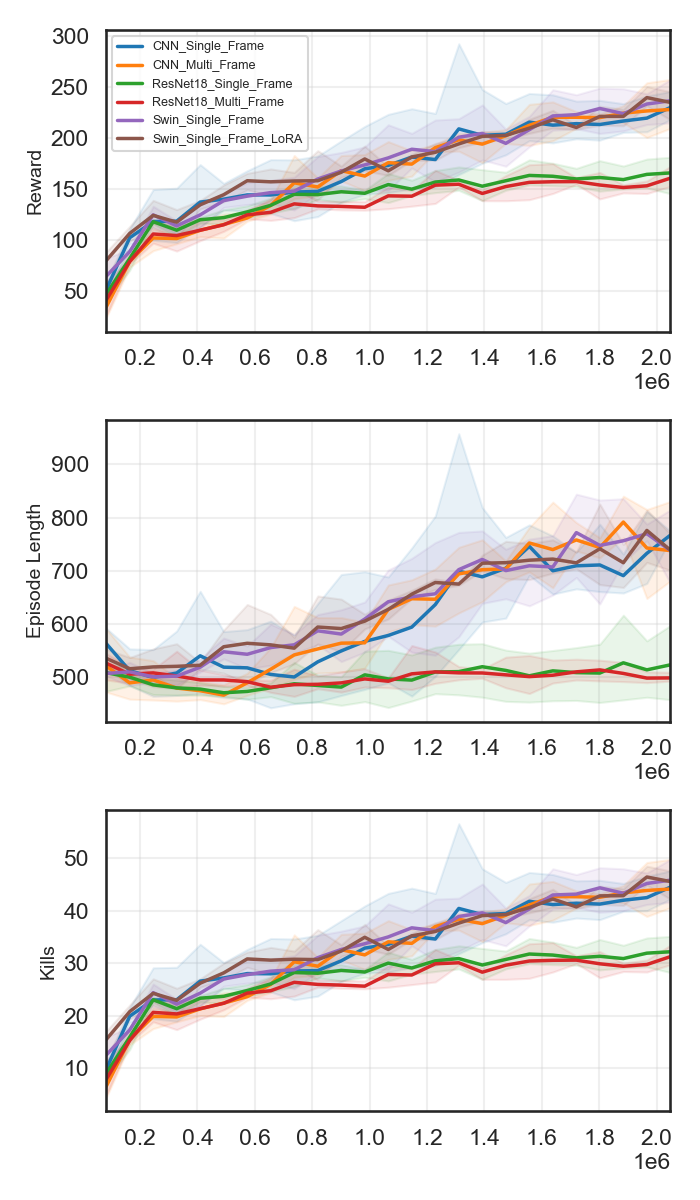
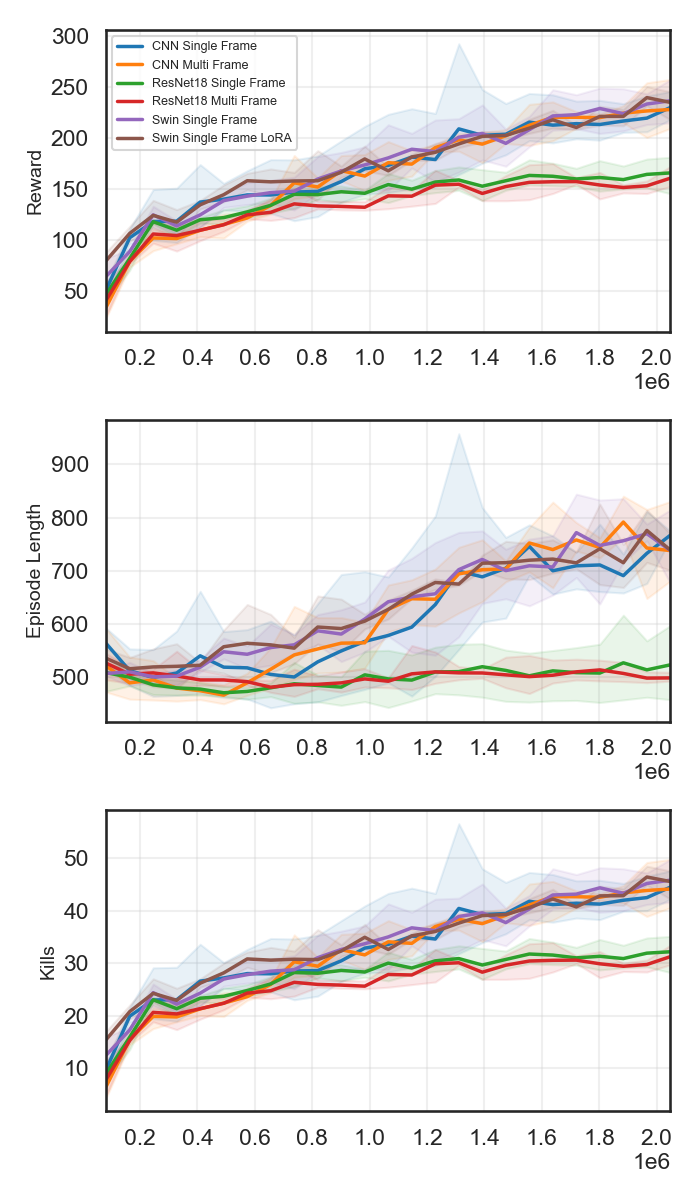
Cambiata la thickness della linea del grafico delle perdite e migliorata la legenda

Changed region(s): [[0.21, 0.0308, 0.45, 0.1233]]

diff --git a/plot_reward.py b/plot_reward.py
@@ -15,28 +15,28 @@ csv_files = ["reward.csv", "episode_len.csv", "kills.csv"]
 # Colonne da tracciare specifiche per ogni file CSV
 models_per_file = {
     "reward.csv": {
-        "CNN_Single_Frame": "Group: CNN_Single_Frame_Adapted - Default-Conf-v1/reward",
-        "CNN_Multi_Frame": "Group: CNN_Adapted - Default-Conf-v1/reward",
-        "ResNet18_Single_Frame": "Group: ResNet_Single_Frame_Adapted - Default-Conf-v1/reward",
-        "ResNet18_Multi_Frame": "Group: ResNet_Adapted - Default-Conf-v1/reward",
-        "Swin_Single_Frame": "Group: Swin_Single_Frame_Adapted_lrl-- - Default-Conf-v1/reward",
-        "Swin_Single_Frame_LoRA": "Group: Swin_Single_Frame_Adapted_LoRA - Default-Conf-v1/reward",
+        "CNN Single Frame": "Group: CNN_Single_Frame_Adapted - Default-Conf-v1/reward",
+        "CNN Multi Frame": "Group: CNN_Adapted - Default-Conf-v1/reward",
+        "ResNet18 Single Frame": "Group: ResNet_Single_Frame_Adapted - Default-Conf-v1/reward",
+        "ResNet18 Multi Frame": "Group: ResNet_Adapted - Default-Conf-v1/reward",
+        "Swin Single Frame": "Group: Swin_Single_Frame_Adapted_lrl-- - Default-Conf-v1/reward",
+        "Swin Single Frame LoRA": "Group: Swin_Single_Frame_Adapted_LoRA - Default-Conf-v1/reward",
     },
     "episode_len.csv": {
-        "CNN_Single_Frame": "Group: CNN_Single_Frame_Adapted - Default-Conf-v1/episode_len",
-        "CNN_Multi_Frame": "Group: CNN_Adapted - Default-Conf-v1/episode_len",
-        "ResNet18_Single_Frame": "Group: ResNet_Single_Frame_Adapted - Default-Conf-v1/episode_len",
-        "ResNet18_Multi_Frame": "Group: ResNet_Adapted - Default-Conf-v1/episode_len",
-        "Swin_Single_Frame": "Group: Swin_Single_Frame_Adapted_lrl-- - Default-Conf-v1/episode_len",
-        "Swin_Single_Frame_LoRA": "Group: Swin_Single_Frame_Adapted_LoRA - Default-Conf-v1/episode_len",
+        "CNN Single Frame": "Group: CNN_Single_Frame_Adapted - Default-Conf-v1/episode_len",
+        "CNN Multi Frame": "Group: CNN_Adapted - Default-Conf-v1/episode_len",
+        "ResNet18 Single Frame": "Group: ResNet_Single_Frame_Adapted - Default-Conf-v1/episode_len",
+        "ResNet18 Multi Frame": "Group: ResNet_Adapted - Default-Conf-v1/episode_len",
+        "Swin Single Frame": "Group: Swin_Single_Frame_Adapted_lrl-- - Default-Conf-v1/episode_len",
+        "Swin Single Frame LoRA": "Group: Swin_Single_Frame_Adapted_LoRA - Default-Conf-v1/episode_len",
     },
     "kills.csv": {
-        "CNN_Single_Frame": "Group: CNN_Single_Frame_Adapted - Default-Conf-v1/kills",
-        "CNN_Multi_Frame": "Group: CNN_Adapted - Default-Conf-v1/kills",
-        "ResNet18_Single_Frame": "Group: ResNet_Single_Frame_Adapted - Default-Conf-v1/kills",
-        "ResNet18_Multi_Frame": "Group: ResNet_Adapted - Default-Conf-v1/kills",
-        "Swin_Single_Frame": "Group: Swin_Single_Frame_Adapted_lrl-- - Default-Conf-v1/kills",
-        "Swin_Single_Frame_LoRA": "Group: Swin_Single_Frame_Adapted_LoRA - Default-Conf-v1/kills",
+        "CNN Single Frame": "Group: CNN_Single_Frame_Adapted - Default-Conf-v1/kills",
+        "CNN Multi Frame": "Group: CNN_Adapted - Default-Conf-v1/kills",
+        "ResNet18 Single Frame": "Group: ResNet_Single_Frame_Adapted - Default-Conf-v1/kills",
+        "ResNet18 Multi Frame": "Group: ResNet_Adapted - Default-Conf-v1/kills",
+        "Swin Single Frame": "Group: Swin_Single_Frame_Adapted_lrl-- - Default-Conf-v1/kills",
+        "Swin Single Frame LoRA": "Group: Swin_Single_Frame_Adapted_LoRA - Default-Conf-v1/kills",
     },
 }
 
@@ -58,6 +58,8 @@ file_config = {
 
 # Creazione della figura con 3 sottogruppi (subplots)
 fig, axes = plt.subplots(3, 1, figsize=(7, 12))  # 3 riga, 1 colonne
+#fig, axes = plt.subplots(1, 3, figsize=(18, 5))  # 1 riga, 3 colonne
+
 
 # Loop sui file CSV
 for idx, csv_file in enumerate(csv_files):

diff --git a/plot_loss.py b/plot_loss.py
@@ -18,20 +18,20 @@ csv_files = ["entropy.csv", "exp_var.csv"]
 # Colonne da tracciare specifiche per ogni file CSV
 models_per_file = {
     "entropy.csv": {
-        "CNN_Single_Frame": "Group: CNN_Single_Frame_Adapted - losses/entropy",
-        "CNN_Multi_Frame": "Group: CNN_Adapted - losses/entropy",
-        "ResNet18_Single_Frame": "Group: ResNet_Single_Frame_Adapted - losses/entropy",
-        "ResNet18_Multi_Frame": "Group: ResNet_Adapted - losses/entropy",
-        "Swin_Single_Frame": "Group: Swin_Single_Frame_Adapted_lrl-- - losses/entropy",
-        "Swin_Single_Frame_LoRA": "Group: Swin_Single_Frame_Adapted_LoRA - losses/entropy",
+        "CNN Single Frame": "Group: CNN_Single_Frame_Adapted - losses/entropy",
+        "CNN Multi Frame": "Group: CNN_Adapted - losses/entropy",
+        "ResNet18 Single Frame": "Group: ResNet_Single_Frame_Adapted - losses/entropy",
+        "ResNet18 Multi Frame": "Group: ResNet_Adapted - losses/entropy",
+        "Swin Single Frame": "Group: Swin_Single_Frame_Adapted_lrl-- - losses/entropy",
+        "Swin Single Frame LoRA": "Group: Swin_Single_Frame_Adapted_LoRA - losses/entropy",
     },
     "exp_var.csv": {
-        "CNN_Single_Frame": "Group: CNN_Single_Frame_Adapted - losses/explained_variance",
-        "CNN_Multi_Frame": "Group: CNN_Adapted - losses/explained_variance",
-        "ResNet18_Single_Frame": "Group: ResNet_Single_Frame_Adapted - losses/explained_variance",
-        "ResNet18_Multi_Frame": "Group: ResNet_Adapted - losses/explained_variance",
-        "Swin_Single_Frame": "Group: Swin_Single_Frame_Adapted_lrl-- - losses/explained_variance",
-        "Swin_Single_Frame_LoRA": "Group: Swin_Single_Frame_Adapted_LoRA - losses/explained_variance",
+        "CNN Single Frame": "Group: CNN_Single_Frame_Adapted - losses/explained_variance",
+        "CNN Multi Frame": "Group: CNN_Adapted - losses/explained_variance",
+        "ResNet18 Single Frame": "Group: ResNet_Single_Frame_Adapted - losses/explained_variance",
+        "ResNet18 Multi Frame": "Group: ResNet_Adapted - losses/explained_variance",
+        "Swin Single Frame": "Group: Swin_Single_Frame_Adapted_lrl-- - losses/explained_variance",
+        "Swin Single Frame LoRA": "Group: Swin_Single_Frame_Adapted_LoRA - losses/explained_variance",
     },
 }
 
@@ -47,8 +47,9 @@ file_config = {
     },
 }
 
-# Creazione della figura con 3 sottogruppi (subplots)
+# Creazione della figura con 2 sottogruppi (subplots)
 fig, axes = plt.subplots(2, 1, figsize=(7, 8))  # 2 riga, 1 colonne
+#fig, axes = plt.subplots(1, 2, figsize=(14, 5))  # 1 riga, 2 colonne
 
 # Loop sui file CSV
 for idx, csv_file in enumerate(csv_files):
@@ -93,7 +94,7 @@ for idx, csv_file in enumerate(csv_files):
                 df[col],
                 label=model,
                 color=color,
-                linewidth=2.5,
+                linewidth=1.0,
                 alpha=1.0
             )
             
@@ -107,7 +108,7 @@ for idx, csv_file in enumerate(csv_files):
                 )
                 
             if csv_file == "exp_var.csv":
-                axins.plot(df["global_step"], df[col], label=model, color=color, linewidth=2.5, alpha=1.0)
+                axins.plot(df["global_step"], df[col], label=model, color=color, linewidth=1.0, alpha=1.0)
 
     # Configurazione specifica per il file corrente
     config = file_config.get(csv_file, {})
